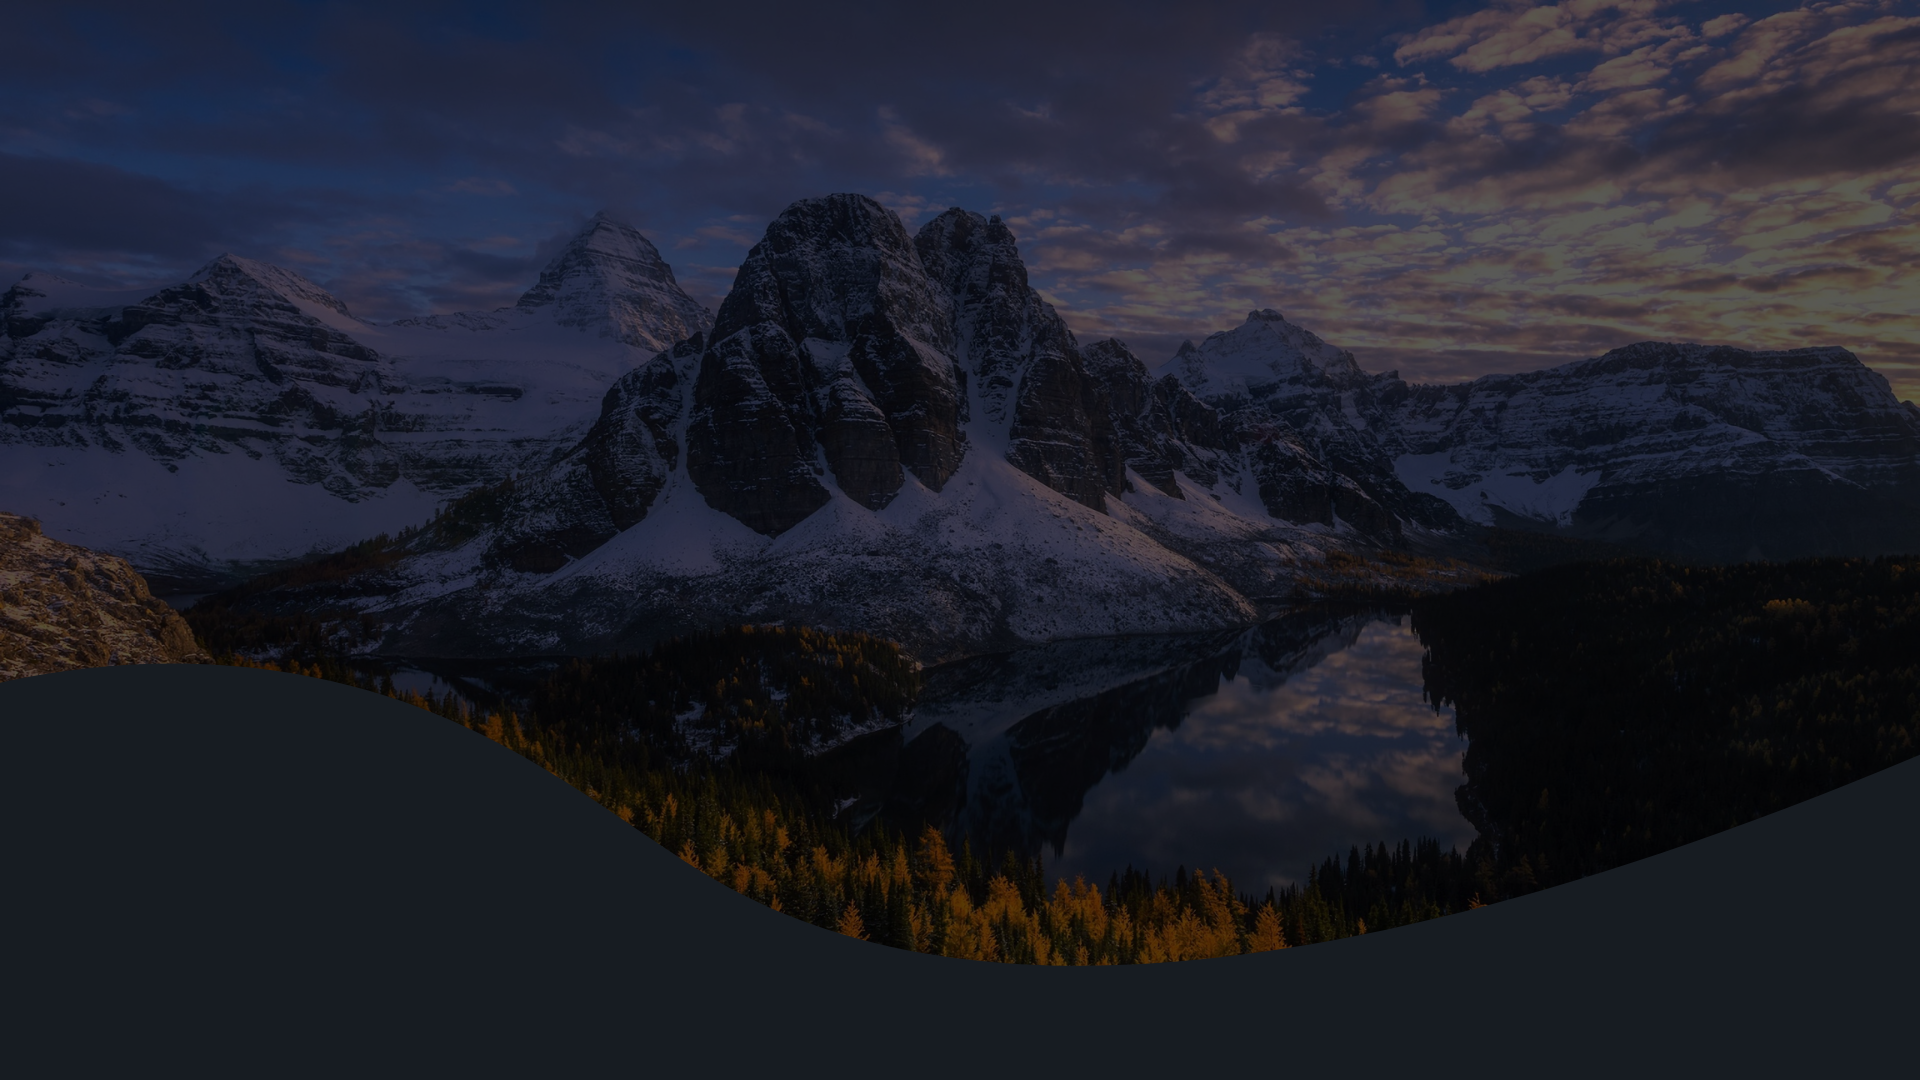
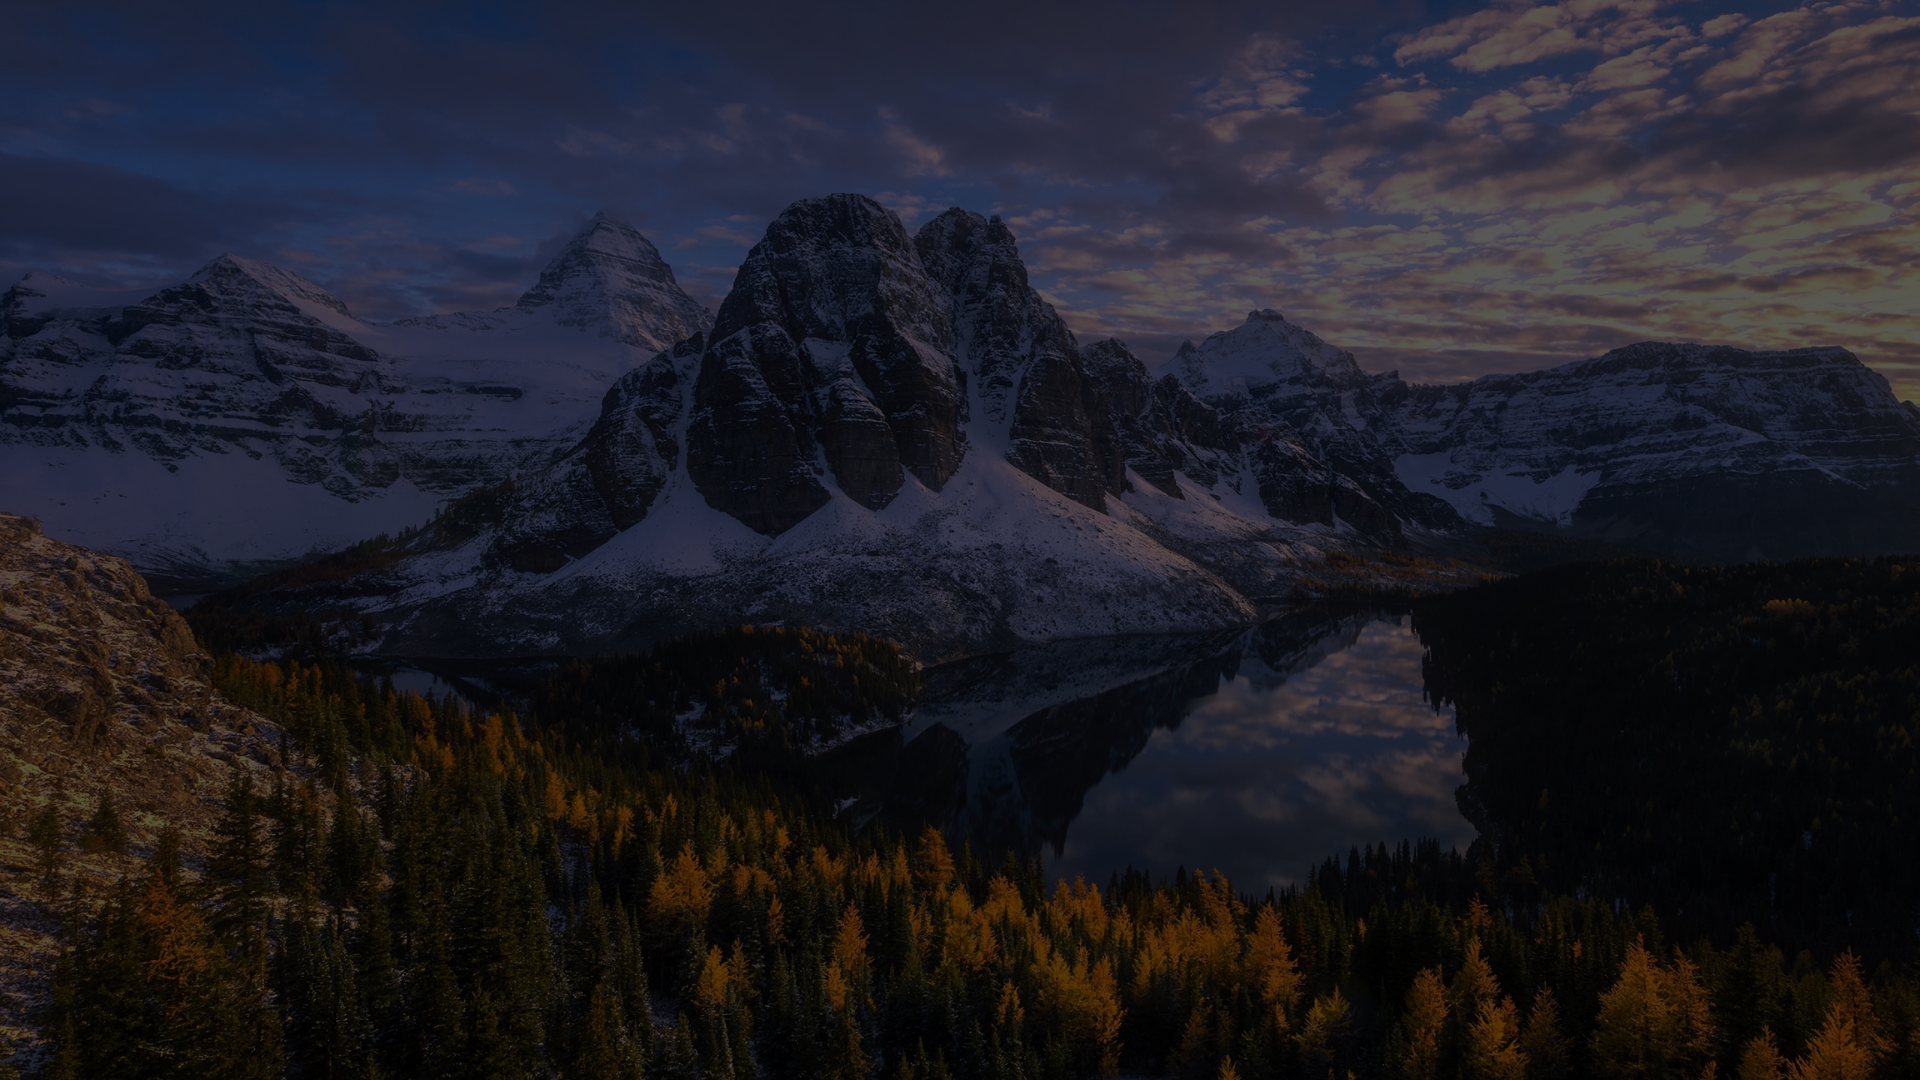
Test svg hero

Changed region(s): [[0.0, 0.6111, 1.0, 1.0]]

diff --git a/src/components/Hero.jsx b/src/components/Hero.jsx
@@ -10,6 +10,7 @@ function Hero({ toAboutMe, toPorjects, toSkills, toContact }) {
   const hiRef = useRef(null);
   const nameRef = useRef(null);
   const iconsRef = useRef(null);
+  const svgRef = useRef(null);
 
   useEffect(() => {
     const tl = gsap.timeline();
@@ -65,6 +66,15 @@ function Hero({ toAboutMe, toPorjects, toSkills, toContact }) {
         ease: "power2.out",
       },
     );
+
+    gsap.to(svgRef.current, {
+      opacity: 1,
+
+      duration: 2,
+      delay: 4,
+      "clip-path": "polygon(0% 100%, 100% 100%, 100% 0%, 0% 0%)",
+      ease: "power4.out",
+    });
   }, []);
 
   return (
@@ -78,7 +88,7 @@ function Hero({ toAboutMe, toPorjects, toSkills, toContact }) {
         toSkills={toSkills}
         toContact={toContact}
       />
-      <div className="flex h-[80vh] flex-col items-center justify-center gap-5">
+      <div className="relative flex h-screen flex-col items-center justify-center gap-5">
         <div className="flex flex-col text-center lg:flex-row lg:gap-4">
           <h2
             ref={hiRef}
@@ -120,6 +130,19 @@ function Hero({ toAboutMe, toPorjects, toSkills, toContact }) {
           </button>
         </div>
       </div>
+
+      <svg
+        ref={svgRef}
+        className="absolute bottom-0 opacity-0"
+        style={{ clipPath: "polygon(0 100%, 99% 100%, 100% 100%, 0% 100%)" }}
+        width="100%"
+        height="250"
+        viewBox="0 0 100 100"
+        preserveAspectRatio="none"
+        xmlns="http://www.w3.org/2000/svg"
+      >
+        <path d="M0 30 Q 25 70 50 30 T 100 30 V100 H0 Z" fill="#171C22" />
+      </svg>
     </section>
   );
 }

diff --git a/README.md b/README.md
@@ -9,5 +9,6 @@ TODO
 - Hacer que letras vengan de abajo que letras vengan de arriba 
 
 
+- cambiar el button more info para celular
 
 - Aparezca el hi, im y despues el nombre
